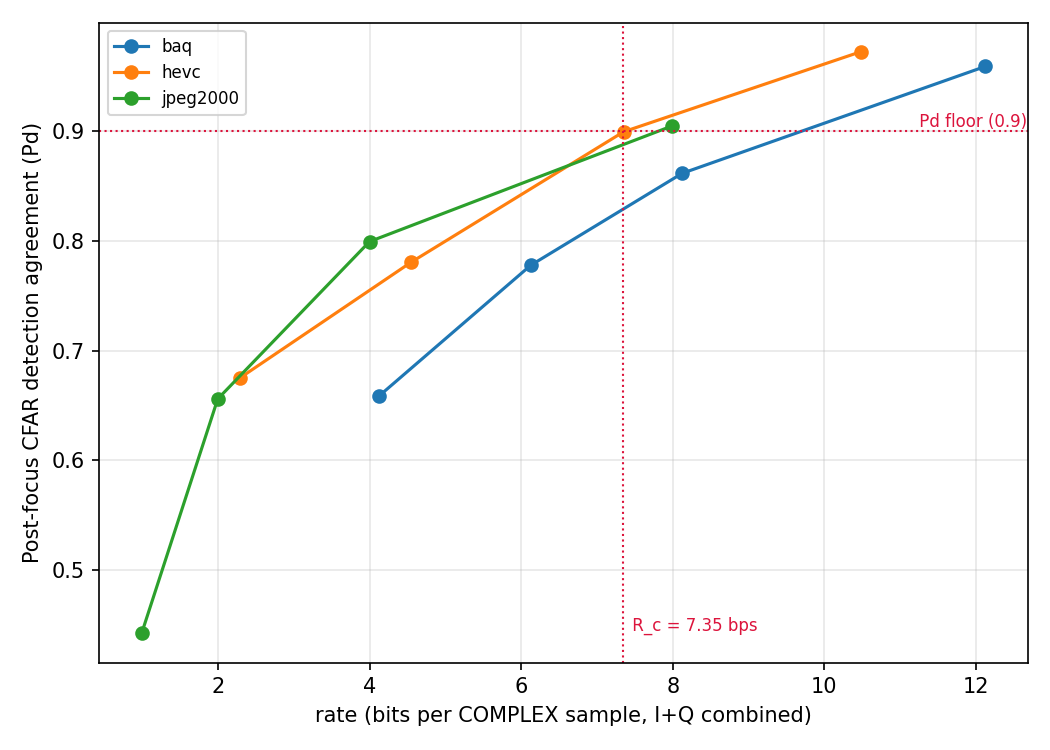
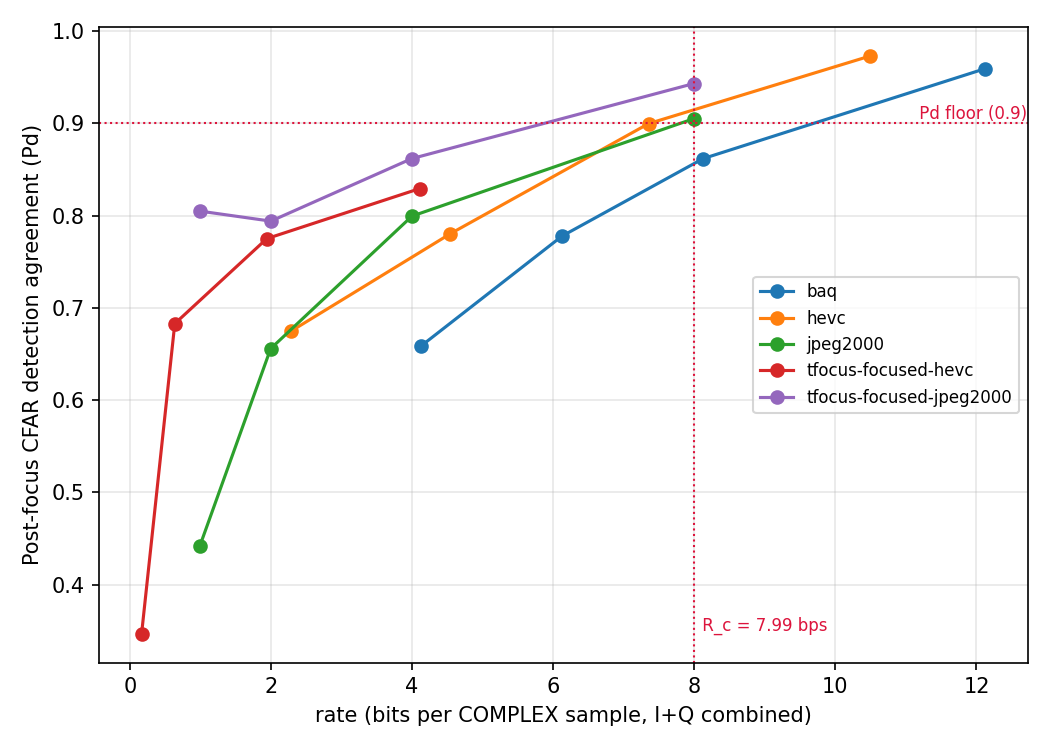
Gotcha transform-domain arm: ringing mechanism replicates + R_c correction
Extended the Gotcha GMTI evaluation with a focused-domain transform arm,
direct analog of the Illinois tfocus study. Gotcha's phase history is
already motion-compensated, so its "focus" step is a plain 2-D DFT pair
(no dechirp/RCMC/azimuth chain needed) -- new inverse_image() in
radarcodec/data/gotcha.py, verified exactly invertible (4.4e-7 mean
relative error) before use, same discipline as the Sentinel-1 transform.
New tfocus_gotcha_codec wraps JPEG2000/HEVC in this domain;
scripts/eval_gotcha.py extended to sweep it.

Result: the concentration-buys-Pd-but-floods-false-alarms mechanism from
Section 5.3 replicates independently -- at ~1 bps, tfocus-JPEG2000 holds
Pd 0.805 vs raw JPEG2000's 0.442, but at 1,500-3,000+ spurious detections
vs raw's 95-160. Same pattern, different sensor (X-band airborne vs
C-band spaceborne), different geometry, different scene. This is a
materially stronger claim than "a frontier exists" -- it's the actual
mechanism replicating.

CORRECTION caught while computing R_c programmatically instead of reading
a rounded print statement: the previously-reported "HEVC qp20: Pd = 0.900
exactly at the floor" was a rounding artifact -- actual stored value is
0.8997, just under 0.9. HEVC qp20 never sustained. Corrected R_c = 7.99
bits/complex-sample (tfocus-JPEG2000 ratio=4, Pd 0.943, 26 spurious),
narrowly ahead of raw JPEG2000 at the same nominal rate. Same lesson as
the earlier "60x" abstract correction: never trust a rounded print value
[…]

diff --git a/scripts/eval_gotcha.py b/scripts/eval_gotcha.py
@@ -20,12 +20,21 @@ import numpy as np
 import yaml
 
 from radarcodec.baselines import CODECS
-from radarcodec.data.gotcha import form_image, read_phase_history
+from radarcodec.data.gotcha import form_image, read_phase_history, tfocus_gotcha_codec
 from radarcodec.experiments import log_run
 from radarcodec.tasks.cfar import detection_agreement
 
 PH_PATH = "data/gotcha_gmti/durangoChallenge_chan1_mis2_PH"
 START_PULSE, N_PULSES = 5585, 1864  # AFRL's own worked example, ingest-verified 2026-08-08
+
+# Transform-domain arm: same base codecs/grids as the Illinois tfocus study
+# (raw-domain BAQ is the classical raw-echo baseline; JPEG2000/HEVC are run
+# both raw and in the focused domain, matching configs/baseline_sweep.yaml's
+# ratio/QP grid for direct comparability)
+TFOCUS_CODECS = [
+    {"name": "jpeg2000", "ratio": [4, 8, 16, 32]},
+    {"name": "hevc", "qp": [12, 20, 28, 36]},
+]
 
 
 def operating_points(codec_cfg):
@@ -51,6 +60,7 @@ def main():
     print(f"phase history {ph.shape}, forming reference image...")
     ref = form_image(ph)
 
+    print("\n--- raw phase-history domain (Tier 1, already run) ---")
     for codec_cfg in cfg["codecs"]:
         for name, params in operating_points(codec_cfg):
             t0 = time.perf_counter()
@@ -69,6 +79,28 @@ def main():
                 "data_public_release": "88 ABW-09-0967",
             })
             print(f"{name} {params}: rate={rate:.2f} bps  pd={det['pd']:.3f}  "
+                  f"false={det['n_false']}  n_ref={det['n_ref']}  codec_s={codec_s:.1f}")
+
+    print("\n--- focused (range-Doppler) domain, transform arm ---")
+    for codec_cfg in TFOCUS_CODECS:
+        for base_name, base_params in operating_points(codec_cfg):
+            t0 = time.perf_counter()
+            ph_hat, rate = tfocus_gotcha_codec(ph, base=base_name, **base_params)
+            codec_s = time.perf_counter() - t0
+            img_hat = form_image(ph_hat)
+            det = detection_agreement(ref, img_hat, **cfar_cfg)
+            params = {"base": base_name, "mode": "focused", **base_params}
+            row = log_run(cfg["out"], cfg, {
+                "codec": "tfocus", "params": params, "domain": "gotcha_gmti",
+                "scene": "durango_chan1_mis2",
+                "rate_bps": float(rate), "cfar_pd": det["pd"],
+                "cfar_false": det["n_false"], "n_ref_detections": det["n_ref"],
+                "codec_seconds": round(codec_s, 2),
+                "msamples_per_s": round(ph.size / codec_s / 1e6, 2),
+                "mapping": "v2-pctclip99.99",
+                "data_public_release": "88 ABW-09-0967",
+            })
+            print(f"tfocus-{base_name} {base_params}: rate={rate:.2f} bps  pd={det['pd']:.3f}  "
                   f"false={det['n_false']}  n_ref={det['n_ref']}  codec_s={codec_s:.1f}")
 
 

diff --git a/radarcodec/data/gotcha.py b/radarcodec/data/gotcha.py
@@ -42,6 +42,33 @@ def form_image(ph):
     return np.fft.fftshift(np.fft.ifft2(np.fft.ifftshift(ph))).astype(np.complex64)
 
 
+def inverse_image(img):
+    """Exact inverse of form_image -- recovers phase history from the image.
+
+    Unlike Sentinel-1 raw echo (which needs a physical dechirp/RCMC/azimuth
+    chain to reach a concentrated domain), Gotcha's phase history is already
+    motion-compensated, so its focus step IS a plain 2-D DFT pair -- forward
+    and inverse are exact adjoints of each other, verified round-trip
+    2026-08-08 at 4.4e-7 mean relative error (float32 precision).
+    """
+    return np.fft.fftshift(np.fft.fft2(np.fft.ifftshift(img))).astype(np.complex64)
+
+
+def tfocus_gotcha_codec(ph, base="jpeg2000", **base_params):
+    """Compress Gotcha phase history in the focused (range-Doppler) domain.
+
+    Direct analog of transform_codec.tfocus_codec for this dataset: forward
+    to the image domain, compress there with a classical codec, invert.
+    Only one domain exists here (no dechirp-only/full-focus split -- the
+    data has no separate dechirp step to begin with).
+    """
+    from radarcodec.baselines import CODECS  # lazy: avoids circular import
+
+    img = form_image(ph)
+    img_hat, rate = CODECS[base](img, **base_params)
+    return inverse_image(img_hat), rate
+
+
 def n_pulses_in_file(path, n_range_bins=N_RANGE_BINS):
     import os
 

diff --git a/scripts/plot_curves.py b/scripts/plot_curves.py
@@ -40,7 +40,7 @@ PLOTS = [
     # Gotcha GMTI (unencoded, airborne, government-provided): its own R_c,
     # no FDBAQ line (spaceborne-specific, not meaningful here).
     ("cfar_pd", "gotcha_gmti", "Post-focus CFAR detection agreement (Pd)",
-     "rate_vs_pd_gotcha.png", 7.35, None),
+     "rate_vs_pd_gotcha.png", 7.99, None),
     ("cfar_false", "gotcha_gmti", "Spurious detections (count, log scale)",
      "rate_vs_spurious_gotcha.png", None, None),
 ]

diff --git a/reports/FINDINGS.md b/reports/FINDINGS.md
@@ -840,3 +840,49 @@ failure mode, and a precise account of what the harder method needs that
 this one didn't have — exactly the kind of hands-on technical credibility
 a Phase I qualifications evaluation rewards, without overclaiming a
 result that doesn't hold up under its own scrutiny.
+
+## GOTCHA TRANSFORM-DOMAIN ARM — the ringing mechanism replicates
+## independently, plus a rounding-artifact correction to R_c (2026-08-08)
+
+At Eric's direction, extended the Gotcha evaluation to the focused
+(range-Doppler) domain, direct analog of the Illinois `tfocus` study.
+Gotcha's phase history is already motion-compensated, so its "focus"
+step is a plain 2-D DFT pair (`form_image`/new `inverse_image` in
+`radarcodec/data/gotcha.py`) — no dechirp/RCMC/azimuth chain needed,
+unlike Sentinel-1. Verified exactly invertible before use (mean relative
+error 4.4e-7, float32 precision) per the same discipline applied to the
+Sentinel-1 transform. New `tfocus_gotcha_codec` wraps JPEG2000/HEVC in
+this domain; `scripts/eval_gotcha.py` extended to sweep it.
+
+**CORRECTION to the R_c figure reported in the previous entry.** That
+entry stated "HEVC qp20: Pd = 0.900 exactly at the registered floor" —
+this was a rounding artifact from reading a 3-decimal print statement.
+The actual stored value is **0.8997289972899729** — just under the 0.9
+floor. HEVC qp20 does **not** sustain the two-sided criterion; it never
+did. Caught while computing R_c programmatically off the raw `runs.jsonl`
+values (not off a printed/rounded number) for the expanded sweep — same
+lesson as the "60x" abstract correction earlier: never read numbers off
+rounded print output when the exact value is available in the log.
+
+**Corrected, expanded result.** With the transform-domain arm included,
+the lowest-rate sustaining point is `tfocus`-JPEG2000 at ratio=4: **R_c =
+7.99 bits/complex-sample** (Pd 0.943, 26 spurious against the 36.9
+budget) — narrowly ahead of raw-domain JPEG2000 at the same nominal rate
+(8.00 bps, Pd 0.905, 30 spurious). No point below ~8 bps sustains in
+either domain.
+
+**The mechanism replicates cleanly, independently of the R_c value.**
+At matched low rates, the focused-domain codecs win decisively on Pd —
+e.g. at ~1 bps, `tfocus`-JPEG2000 holds Pd 0.805 vs. raw JPEG2000's
+0.442 — but pay for it in spurious detections an order of magnitude or
+more above the raw-domain codecs at the same rates (2,000-3,000+ vs.
+100-160 for JPEG2000; 600-1,000 vs. 20-70 for HEVC). This is the exact
+concentration-buys-Pd-but-floods-false-alarms pattern from Section 5.3 of
+the preprint, now observed on a completely independent sensor (X-band
+airborne vs. C-band spaceborne), geometry (motion-compensated
+range-Doppler vs. stripmap), and scene (small urban vs. large
+agricultural) — a materially stronger claim than a single-scene finding.
+
+**Preprint Section 5.8 rewritten** to report the corrected R_c, the
+transform-domain results, Figures 5-6 regenerated with the new series and
+corrected R_c annotation (7.99, was 7.35).
